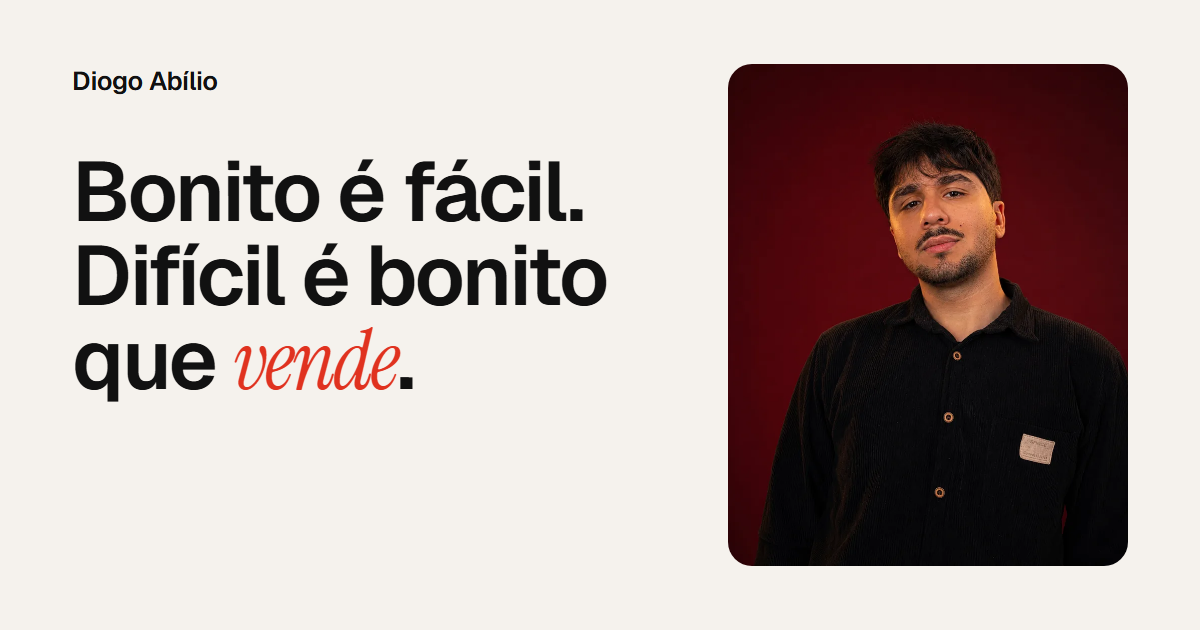
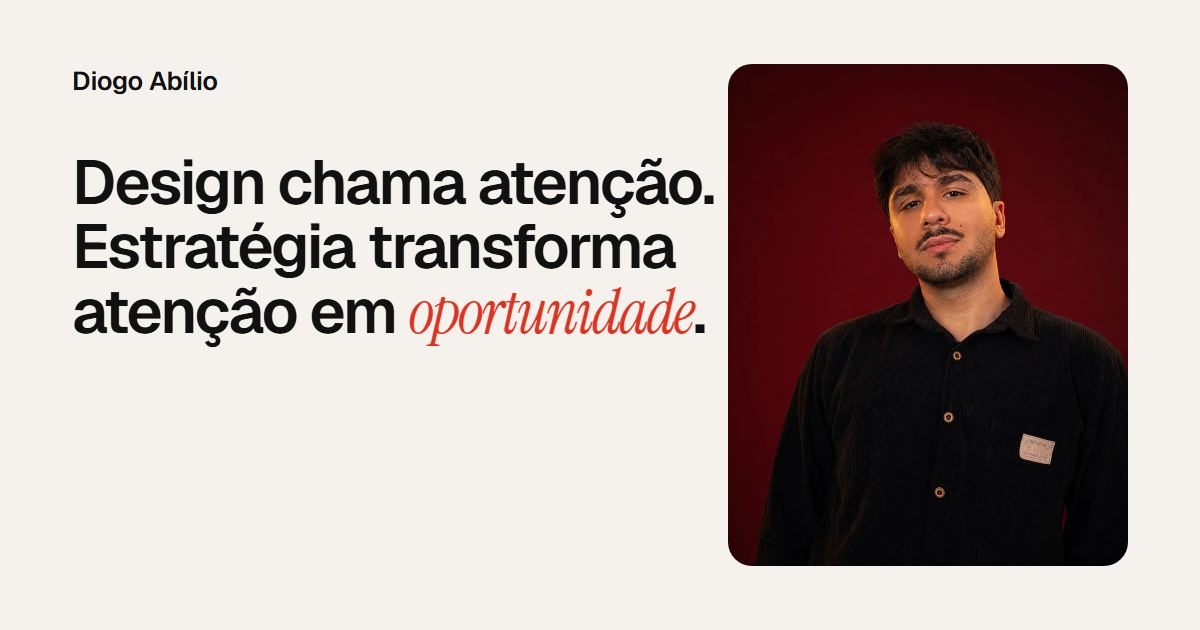
New hero copy and CTA layout
Headline becomes "Design chama atenção. Estratégia transforma atenção
em oportunidade." (one sentence per line, accent on "oportunidade"),
with the new subheadline, "Quero minha análise gratuita" CTA beside a
"Ver meus trabalhos" link and "Em vídeo e sem compromisso." below.
Headline capped at 64px so it sets in three lines; on phones the
reassurance line sits under the button and the CTA stays above the
fold. Meta description and the home OG image follow the new copy.

Changed region(s): [[0.0617, 0.2413, 0.6167, 0.6333]]

diff --git a/src/styles.css b/src/styles.css
@@ -252,14 +252,20 @@ ul, ol { margin: 0; padding: 0; list-style: none; }
 .hero h1 .w { display: inline-block; overflow: hidden; vertical-align: top; padding: 0 .02em .1em; margin: 0 -.02em -.1em; }
 .hero h1 .wi { display: inline-block; animation: wordUp .9s var(--ease-out) both; animation-delay: calc(120ms + var(--i) * 60ms); }
 @keyframes wordUp { from { transform: translateY(110%); } to { transform: none; } }
-.vende { position: relative; display: inline-block; padding-right: .04em; }
-.vende svg { position: absolute; left: -2%; bottom: -.06em; width: 104%; height: .22em; overflow: visible; }
-.vende path { fill: none; stroke: var(--accent); stroke-width: 3; stroke-linecap: round; stroke-dasharray: 220; stroke-dashoffset: 220; animation: draw .9s var(--ease-out) forwards; animation-delay: 1.05s; }
+.hero-title {
+  font-size: clamp(36px, 5vw, 64px);
+  line-height: 1.04;
+  letter-spacing: -0.035em;
+}
+.h1-line { display: block; text-wrap: balance; }
+.hl { position: relative; display: inline-block; padding-right: .04em; }
+.hl svg { position: absolute; left: -2%; bottom: -.06em; width: 104%; height: .2em; overflow: visible; }
+.hl path { fill: none; stroke: var(--accent); stroke-width: 3; stroke-linecap: round; stroke-dasharray: 220; stroke-dashoffset: 220; animation: draw .9s var(--ease-out) forwards; animation-delay: 1.05s; }
 @keyframes draw { to { stroke-dashoffset: 0; } }
-.hero-sub { font-size: 20px; color: var(--muted); max-width: 36ch; margin-bottom: 32px; }
-.hero-cta { display: flex; flex-direction: column; align-items: flex-start; gap: 10px; }
+.hero-sub { font-size: 19px; line-height: 1.6; color: var(--muted); max-width: 46ch; margin-bottom: 36px; }
+.hero-cta { display: flex; flex-direction: column; align-items: flex-start; gap: 14px; }
+.hero-actions { display: flex; flex-wrap: wrap; align-items: center; gap: 16px 28px; }
 .micro { font-size: 14px; color: var(--muted); }
-.hero-cta .link-u { margin-top: 14px; }
 .fade-in { animation: fadeUp .8s var(--ease-out) both; animation-delay: var(--delay, 0ms); }
 @keyframes fadeUp { from { opacity: 0; transform: translateY(12px); } to { opacity: 1; transform: none; } }
 
@@ -305,17 +311,26 @@ ul, ol { margin: 0; padding: 0; list-style: none; }
   .hero { padding-top: calc(var(--nav-h) + 8px); }
   .hero-grid { gap: 8px; }
   .hero-text, .hero-media { grid-column: 1 / -1; }
-  .hero-media { order: -1; height: clamp(220px, 36vh, 360px); }
+  .hero-media { order: -1; height: clamp(200px, 30vh, 340px); }
   .portrait { transform: none; }
   .p-img { max-width: 100%; }
   .p-glow { width: auto; height: 90%; }
   .eyebrow { font-size: 18px; margin-bottom: 6px; }
   .hero h1 { margin-bottom: 14px; }
   .hero-sub { font-size: 17px; margin-bottom: 20px; }
+  /* mobile: reassurance sits right under the button, the secondary link after it */
+  .hero-cta { gap: 12px; }
+  .hero-actions { display: contents; }
+  .hero-actions .btn { width: 100%; justify-content: center; order: 1; }
+  .hero-cta .micro { order: 2; }
+  .hero-actions .link-u { order: 3; margin-top: 8px; }
+}
+@media (max-width: 400px) {
+  .hero-title { font-size: 32px; }
 }
 @media (max-width: 860px) and (max-height: 700px) {
-  .hero-media { height: 210px; }
-  .hero .h1 { font-size: 40px; }
+  .hero-media { height: 180px; }
+  .hero .h1 { font-size: 32px; }
   .hero-sub { font-size: 16px; line-height: 1.5; }
 }
 
@@ -846,7 +861,7 @@ ul, ol { margin: 0; padding: 0; list-style: none; }
   html { scroll-behavior: auto; }
   *, *::before, *::after { animation: none !important; transition: none !important; }
   .js .reveal, .js .split:not(.in) .wi, .hero h1 .wi { opacity: 1; transform: none; }
-  .vende path, .trend { stroke-dashoffset: 0; }
+  .hl path, .trend { stroke-dashoffset: 0; }
   .label::before { transform: scaleX(1); }
   .signature text { stroke-dashoffset: 0; fill: rgba(255, 59, 36, .9); }
   .portrait { transform: none !important; }
